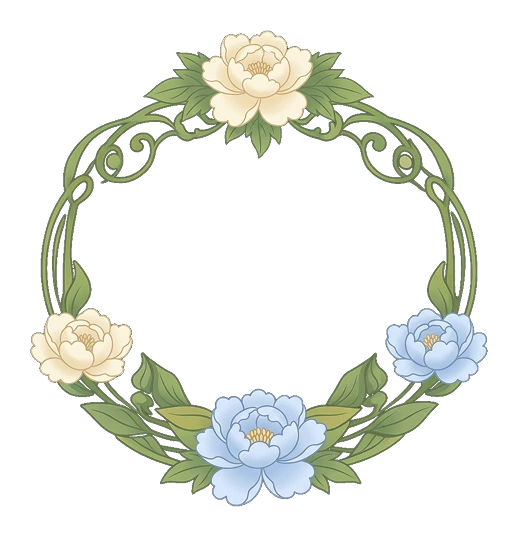
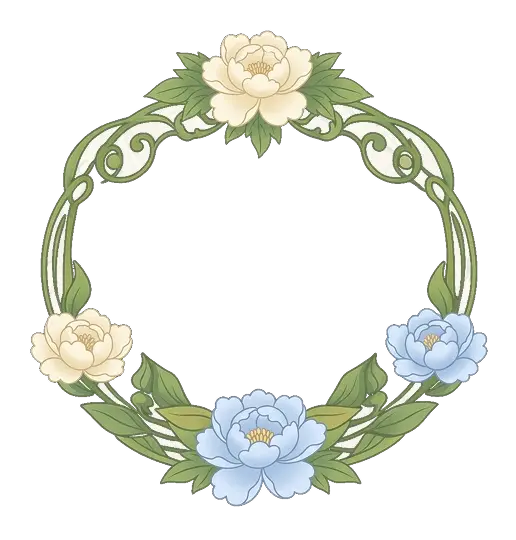
Added scratch interaction

diff --git a/src/hooks/useScratch.js b/src/hooks/useScratch.js
@@ -1,0 +1,100 @@
+import { useRef, useEffect, useCallback, useState } from "react";
+
+function useScratch(threshold = 0.40) {
+  const canvasRef = useRef(null);
+  const isDrawing = useRef(false);
+  const revealed = useRef(false);
+  const [isRevealed, setIsRevealed] = useState(false);
+
+  const initCanvas = useCallback(() => {
+    const canvas = canvasRef.current;
+    if (!canvas) return;
+    const ctx = canvas.getContext("2d");
+    revealed.current = false;
+    setIsRevealed(false);
+    canvas.style.opacity = "1";
+    canvas.style.transition = "";
+    canvas.style.pointerEvents = "auto";
+
+    ctx.clearRect(0, 0, canvas.width, canvas.height);
+    ctx.fillStyle = "#ECE2CE";
+    ctx.beginPath();
+    ctx.roundRect(0, 0, canvas.width, canvas.height, 14);
+    ctx.fill();
+
+    ctx.fillStyle = "#B7A787";
+    ctx.font = "16px serif";
+    ctx.textAlign = "center";
+    ctx.letterSpacing = "3px";
+    ctx.fillText("SCRATCH HERE", canvas.width / 2, canvas.height / 2);
+  }, []);
+
+  const scratch = useCallback((x, y) => {
+    if (revealed.current) return;
+    const canvas = canvasRef.current;
+    const ctx = canvas.getContext("2d");
+    ctx.globalCompositeOperation = "destination-out";
+    ctx.beginPath();
+    ctx.arc(x, y, 22, 0, Math.PI * 2);
+    ctx.fill();
+    ctx.globalCompositeOperation = "source-over";
+
+    // Sample every 4th pixel for perf
+    const { data } = ctx.getImageData(0, 0, canvas.width, canvas.height);
+    let transparent = 0;
+    for (let i = 3; i < data.length; i += 16) {
+      if (data[i] < 128) transparent++;
+    }
+    const pct = (transparent * 4) / (canvas.width * canvas.height);
+    if (pct >= threshold) triggerReveal();
+  }, [threshold]);
+
+  const triggerReveal = useCallback(() => {
+    if (revealed.current) return;
+    revealed.current = true;
+    setIsRevealed(true);
+    const canvas = canvasRef.current;
+    canvas.style.transition = "opacity 0.8s ease";
+    canvas.style.opacity = "0";
+    canvas.style.pointerEvents = "none";
+  }, []);
+
+  const getPos = (e, canvas) => {
+    const rect = canvas.getBoundingClientRect();
+    const sx = canvas.width / rect.width;
+    const sy = canvas.height / rect.height;
+    const src = e.touches ? e.touches[0] : e;
+    return { x: (src.clientX - rect.left) * sx, y: (src.clientY - rect.top) * sy };
+  };
+
+  useEffect(() => {
+    initCanvas();
+    const canvas = canvasRef.current;
+
+    const onDown  = e => { isDrawing.current = true;  const p = getPos(e, canvas); scratch(p.x, p.y); };
+    const onMove  = e => { if (!isDrawing.current) return; e.preventDefault(); const p = getPos(e, canvas); scratch(p.x, p.y); };
+    const onUp    = () => isDrawing.current = false;
+
+    canvas.addEventListener("mousedown",  onDown);
+    canvas.addEventListener("mousemove",  onMove);
+    canvas.addEventListener("mouseup",    onUp);
+    canvas.addEventListener("mouseleave", onUp);
+    canvas.addEventListener("touchstart", onDown, { passive: false });
+    canvas.addEventListener("touchmove",  onMove, { passive: false });
+    canvas.addEventListener("touchend",   onUp);
+
+    return () => {
+      canvas.removeEventListener("mousedown",  onDown);
+      canvas.removeEventListener("mousemove",  onMove);
+      canvas.removeEventListener("mouseup",    onUp);
+      canvas.removeEventListener("mouseleave", onUp);
+      canvas.removeEventListener("touchstart", onDown);
+      canvas.removeEventListener("touchmove",  onMove);
+      canvas.removeEventListener("touchend",   onUp);
+    };
+  }, [initCanvas, scratch]);
+
+  return { canvasRef, isRevealed };
+}
+
+export default useScratch;

diff --git a/src/sections/Section2.jsx b/src/sections/Section2.jsx
@@ -1,3 +1,4 @@
+import useScratch from "../hooks/useScratch";
 import FlowerArch from "../assets/section-2/flower-arch.webp";
 import CurtainBlueT from "../assets/section-2/curtain-blue-t.webp";
 import CurtainBlueL from "../assets/section-2/curtain-blue-l.webp";
@@ -13,6 +14,9 @@ import BackgroundWallpaper from "../assets/background-wallpaper.webp";
 
 
 export function Section2() {
+  const { canvasRef, isRevealed } = useScratch(0.40);
+
+
   return (
     <section className="relative w-full min-h-208 overflow-visible">
       {/* --- BACKGROUND --- */}
@@ -32,7 +36,6 @@ export function Section2() {
       <div className="absolute w-100 h-113 left-1/2 -translate-x-1/2 top-67">
         <div className="relative size-full">
           <img src={ScratchTheDate} className="absolute left-1/2 -translate-x-1/2 scale-67"/>
-          <img src={FrameFlower} className="absolute left-1/2 -translate-x-1/2 top-1/2 -translate-y-1/2 scale-90"/>
           <img src={SaveTheDate} className="absolute left-1/2 -translate-x-1/2 bottom-0 scale-59"/>
 
           <div className="absolute w-60 h-26 left-1/2 -translate-x-1/2 top-1/2 -translate-y-1/2 
@@ -41,10 +44,19 @@ export function Section2() {
             <h1 className="text-4xl">SEP 26, 2026</h1>
             <h3 className="text-xl">09:30 PM</h3>
           </div>
+
+          <canvas
+            ref={canvasRef}
+            width={290} // pixel size == scratch zone in px
+            height={250} 
+            className="absolute w-[290px] h-[250px] left-1/2 -translate-x-1/2 top-1/2 -translate-y-1/2 cursor-crosshair touch-none rounded-full"
+          />
+
+          <img src={FrameFlower} className="absolute left-1/2 -translate-x-1/2 top-1/2 -translate-y-1/2 scale-90 pointer-events-none"/>
         </div>
       </div>
 
-      
+
     </section>
   );
 }
